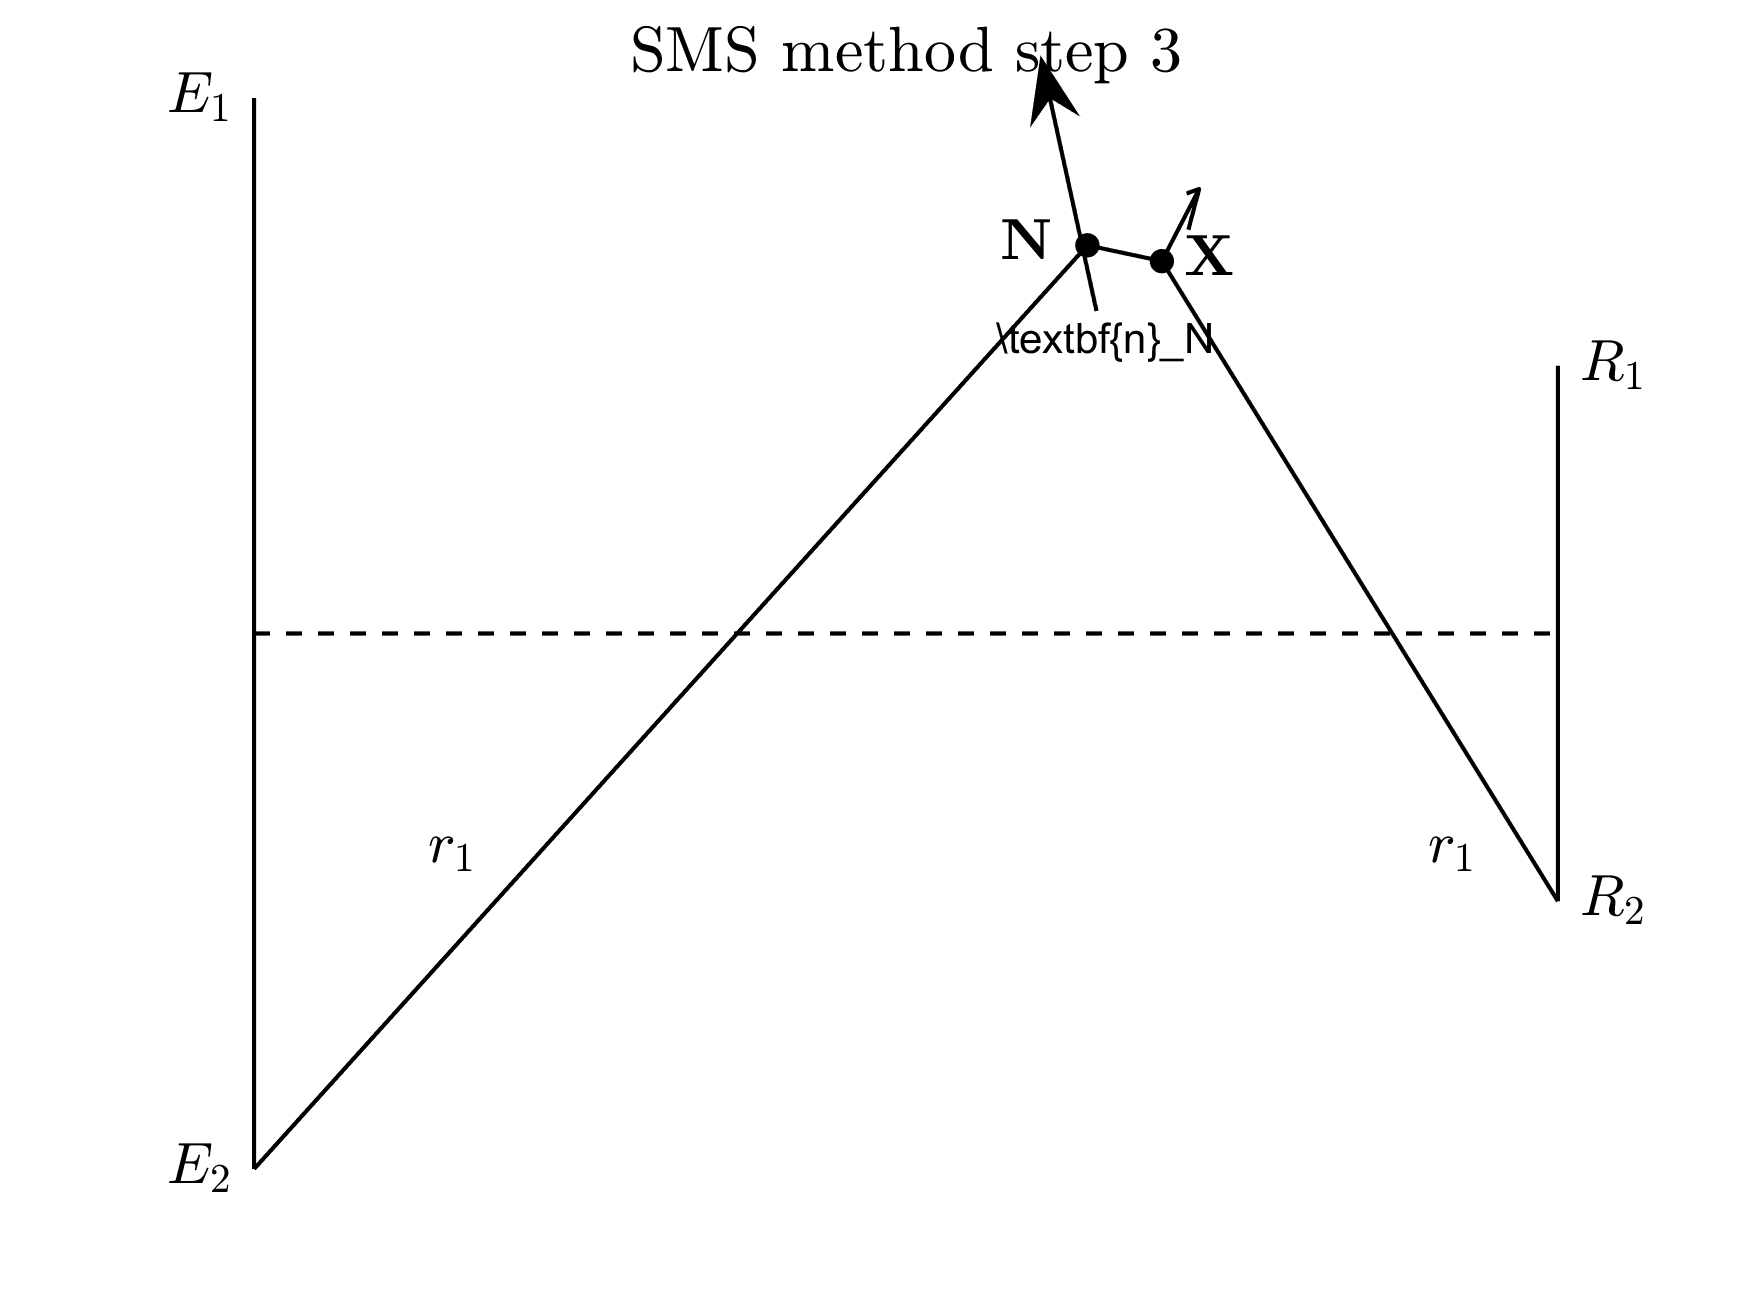
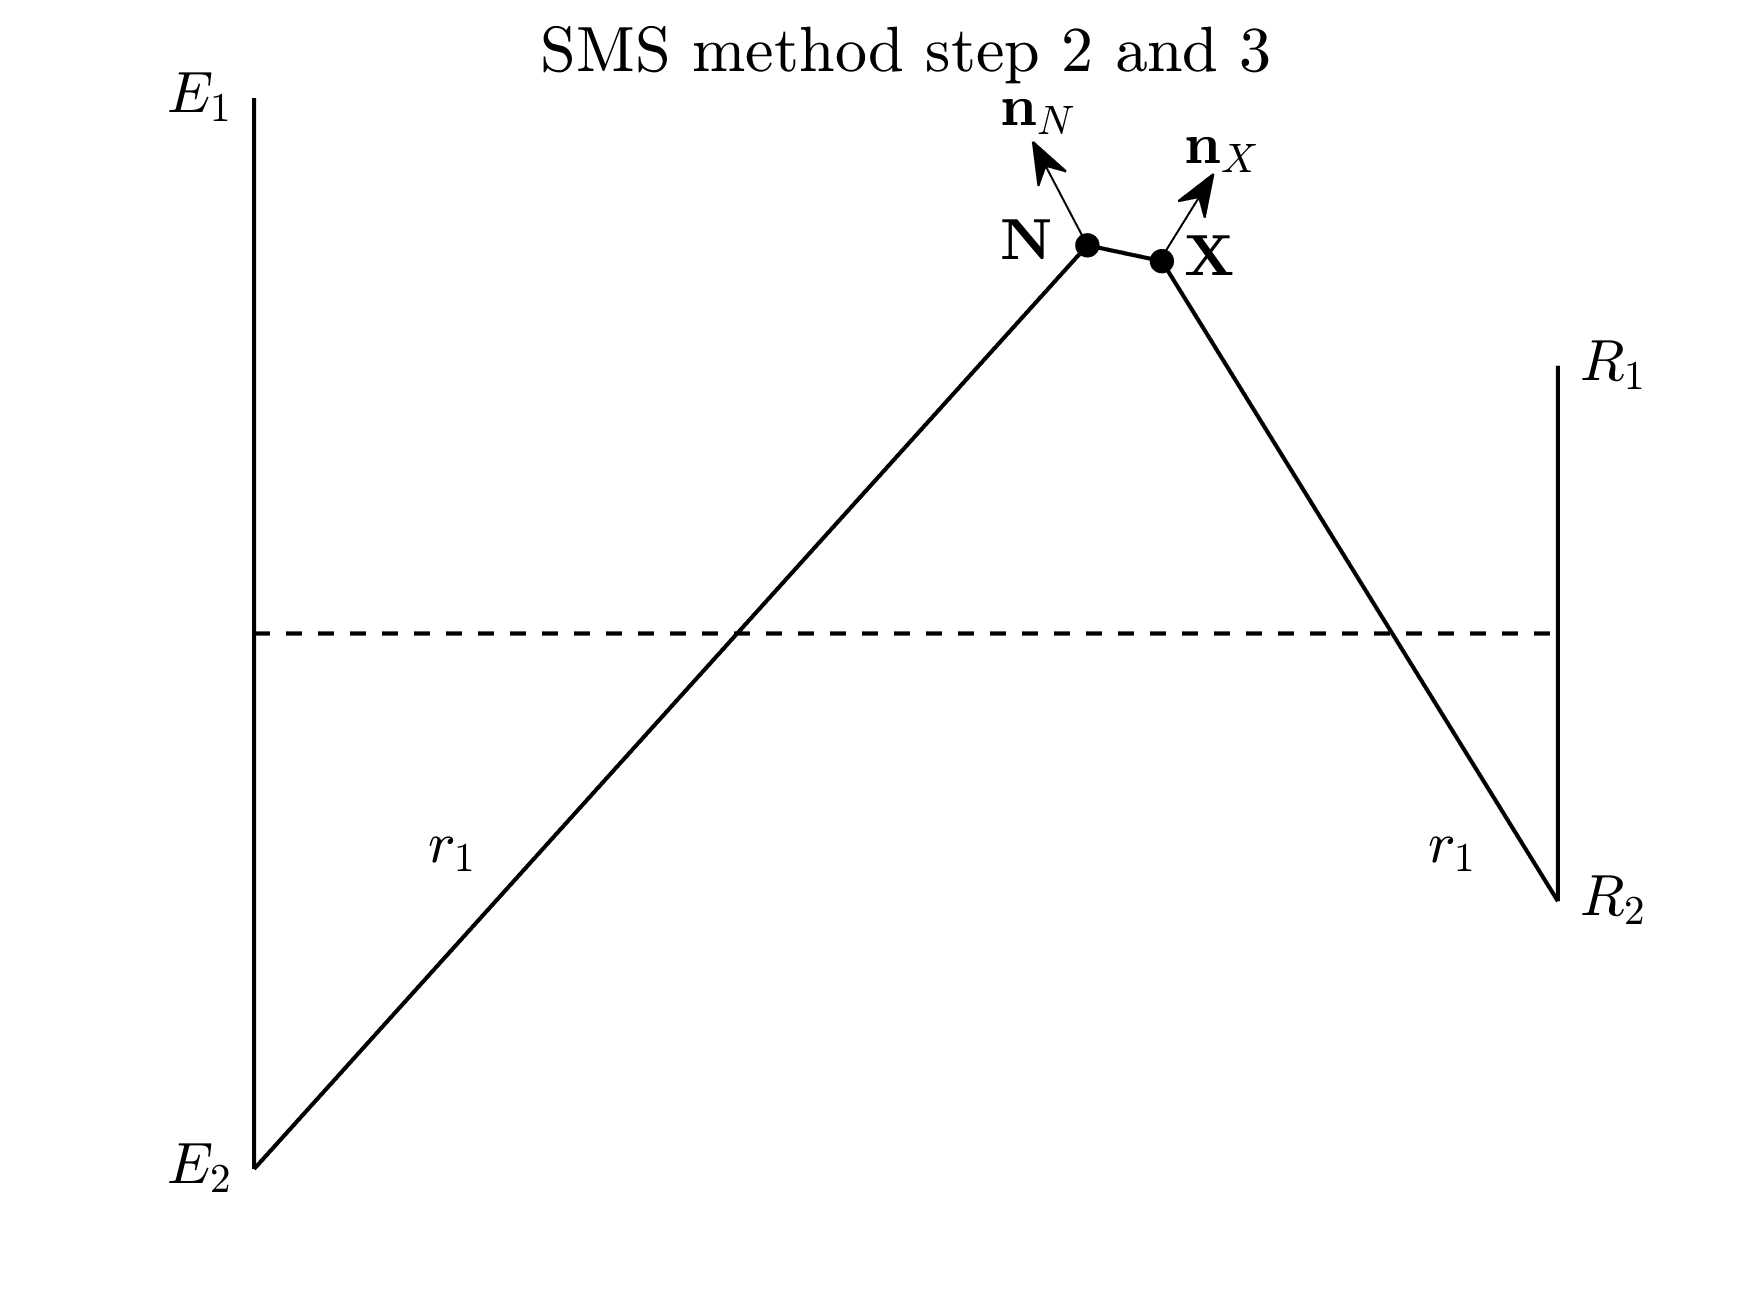
Updates pictures

Changed region(s): [[0.3086, 0.0, 0.7406, 0.1561], [0.5554, 0.2498, 0.7097, 0.281], [0.6789, 0.0937, 0.7097, 0.1874]]

diff --git a/sms2.m b/sms2.m
@@ -1,5 +1,6 @@
 %% SMS
 close all; clear all;
+set(0,'defaulttextinterpreter','latex'); set(0,'defaultaxesfontsize',14);
 plotHyp     = true;
 plotLens    = true;
 plotSym     = true;
@@ -68,6 +69,9 @@ n_X = find_normal(R_1,X,N,n);
 X_1 = SMSs3(E_2,N,X,R_1,n,n_N);
 N_1 = SMSs3(R_2,X,N,E_1,n,n_X);
 
+n_X_1 = find_normal(R_1,X_1,N,n);
+n_N_1 = find_normal(E_1,N_1,X,n);
+
 %% Step 4
 n_max = 100;
 X_lens = zeros(2,1,n_max);
@@ -132,6 +136,16 @@ q_n_N.LineWidth = 2;
 q_n_X.LineWidth = 2;
 q_n_N.MaxHeadSize = 0.8;
 q_n_X.MaxHeadSize = 0.8;
+
+q_n_N1 = quiver(N_1(1),N_1(2),n_N_1(1),n_N_1(2));
+q_n_X1 = quiver(X_1(1),X_1(2),n_X_1(1),n_X_1(2));
+
+q_n_N1.Color = 'black';
+q_n_X1.Color = 'blue';
+q_n_N1.LineWidth = 2;
+q_n_X1.LineWidth = 2;
+q_n_N1.MaxHeadSize = 0.8;
+q_n_X1.MaxHeadSize = 0.8;
 end
 
 % Plot optical axis
@@ -196,7 +210,7 @@ text(X(1)+0.5,X(2),'\textbf{X}','FontSize',14);
 figure(2); print('SMS_step_1','-dpng','-r300');
 
 %% Figure 3 starting normals and rays
-figure(3);
+figure(3); close; figure(3);
 E = [E_1 E_2];
 R = [R_1 R_2];
 % Plot transmitter and receiver planes
@@ -209,25 +223,19 @@ plot(X(1),X(2),'.k','Markersize',20)
 
 % Plot starting normals
 pos = get(gca, 'Position');
-annotation('textarrow',[N(1),N(1)+ n_N(1)]/(l_OA*1.02),[N(2), N(2)+n_N(2)]/1.9,'interpreter','latex', 'string','\textbf{n}_N','LineWidth',1);
-q_n_X = quiver(X(1),X(2),n_X(1),n_X(2));
+annotation('arrow',[N(1),N(1)+ n_N(1)]/(l_OA*1.03),[1,1]/2+[N(2), N(2)+n_N(2)]/4.6);
+annotation('arrow',[X(1),X(1)+ n_X(1)]/(l_OA*1.05),[1,1]/2+[X(2), X(2)+n_X(2)]/4.6);
+text(N(1)-2,N(2)+0.5,'$\textbf{n}_N$','FontSize',14);
+text(X(1)+0.5,X(2)+0.42,'$\textbf{n}_X$','FontSize',14);
 
-q_n_N.Color = 'black';
-q_n_X.Color = 'black';
-q_n_N.LineWidth = 1;
-q_n_X.LineWidth = 1;
-q_n_N.MaxHeadSize = 1;
-q_n_X.MaxHeadSize = 1;
-q_n_N.AlignVertexCenters = 'on';
-
-
-% plot first ray
+% Plot ray 1
 plot_ray_lw(E_1, N  , X  , R_1,'k',1)
+
 % Plot optical axis
 plot([0 l_OA],[0 0],'k--','LineWidth',1)
 
 % General settings
-title('SMS method step 3')
+title('SMS method step 2 and 3')
 xlim([-l_OA*0.02, l_OA*1.02])
 ylim([-2 2])
 axis off
